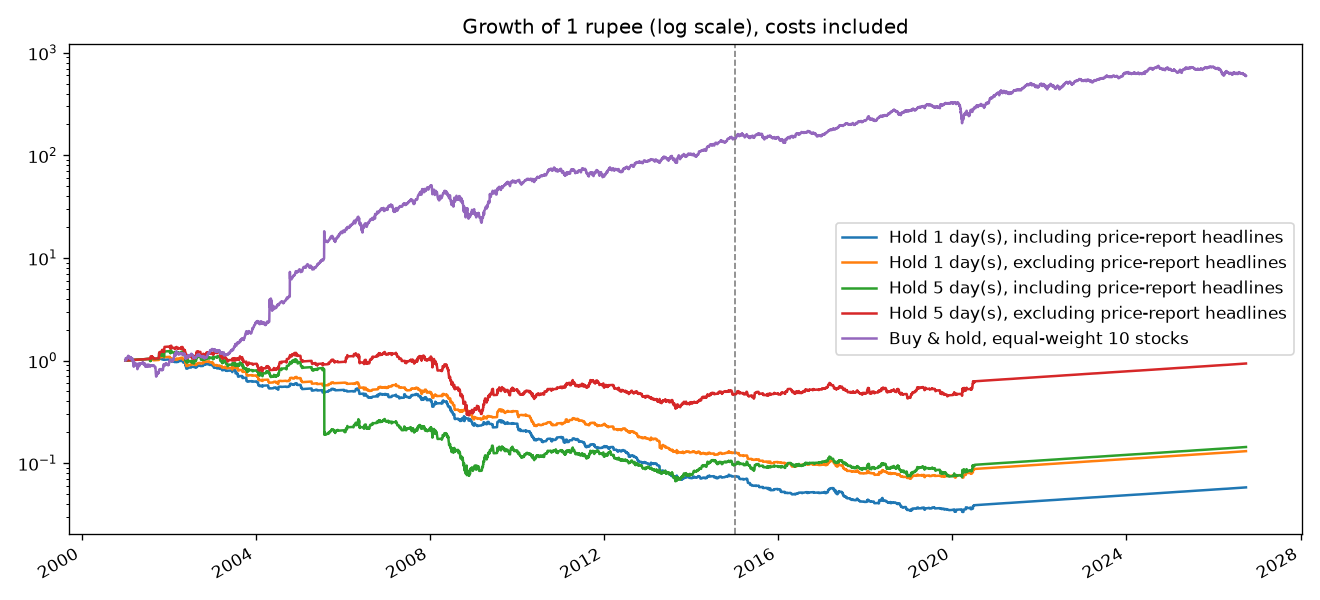
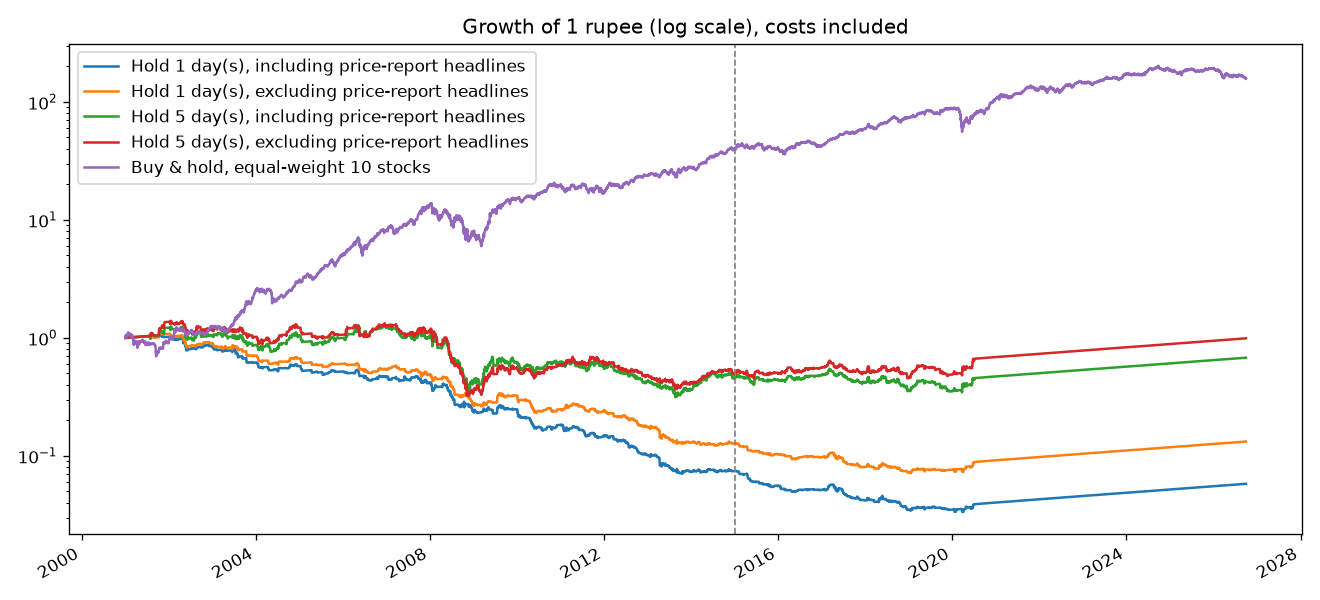
Module 3: price cleaning, pre-news returns; finding: newspaper sentiment lags prices

diff --git a/src/backtest/engine.py b/src/backtest/engine.py
@@ -59,12 +59,18 @@ def events(signal: pd.DataFrame, opens: pd.DataFrame, closes: pd.DataFrame, hold
         if not (np.isfinite(o) and np.isfinite(c)) or o <= 0:
             continue
         raw = c / o - 1
+        # Abnormal return over the 5 sessions BEFORE entry (up to the news-day close):
+        # tells us whether the headline arrived after the market had already moved.
+        pre = np.nan
+        if i >= 6:
+            pc = closes.iloc[i - 1] / closes.iloc[i - 6] - 1
+            pre = float(pc[r.ticker] - pc.mean(skipna=True))
         # Equal-weight market: the AVERAGE of each stock's own return over the same window
         # (averaging prices instead would overweight high-priced stocks).
         mkt = float((closes.iloc[j] / opens.iloc[i] - 1).mean(skipna=True))
-        rows.append((r.ticker, r.date, dates[i], dates[j], r.score, r.n, raw, raw - mkt))
+        rows.append((r.ticker, r.date, dates[i], dates[j], r.score, r.n, raw, raw - mkt, pre))
     return pd.DataFrame(rows, columns=["ticker", "news_date", "entry", "exit", "score", "n",
-                                       "ret", "abn_ret"])
+                                       "ret", "abn_ret", "pre_abn_ret"])
 
 
 def event_study(ev: pd.DataFrame, threshold: float) -> pd.DataFrame:
@@ -75,6 +81,10 @@ def event_study(ev: pd.DataFrame, threshold: float) -> pd.DataFrame:
                         "hit_rate_%": g.apply(lambda s: (s > 0).mean() * 100)})
     se = g.std() / np.sqrt(g.size())
     out["t_stat"] = g.mean() / se
+    if "pre_abn_ret" in ev:
+        gp = ev.groupby(b, observed=False)["pre_abn_ret"]
+        out["pre_5d_abn_ret_%"] = gp.mean() * 100
+        out["pre_t_stat"] = gp.mean() / (gp.std() / np.sqrt(gp.count()))
     return out
 
 
@@ -104,4 +114,4 @@ def portfolio_returns(ev: pd.DataFrame, opens: pd.DataFrame, closes: pd.DataFram
 
 def benchmark_returns(closes: pd.DataFrame) -> pd.Series:
     """Equal-weight buy-and-hold of all stocks, rebalanced daily."""
-    return closes.pct_change().mean(axis=1).fillna(0.0)
+    return closes.pct_change(fill_method=None).mean(axis=1).fillna(0.0)

diff --git a/src/ingest/prices.py b/src/ingest/prices.py
@@ -16,3 +16,35 @@ def fetch_prices(ticker: str, start: str, end: str | None = None) -> pd.DataFram
     df = raw.reset_index().rename(columns=str.lower)
     df["date"] = pd.to_datetime(df["date"]).dt.strftime("%Y-%m-%d")
     return df[["date", "open", "high", "low", "close", "volume"]].dropna(subset=["close"])
+
+
+# First real trading day on NSE. Yahoo returns earlier rows for some stocks that are not real prices.
+LISTING_DATES = {"TCS.NS": "2004-08-25"}
+
+
+def clean_prices(prices: pd.DataFrame, spike: float = 0.30, reversal_band: float = 0.15) -> tuple[pd.DataFrame, pd.DataFrame]:
+    """Remove bad rows from Yahoo daily data. Returns (clean, removed-with-reason).
+
+    Rules:
+      - before_listing: rows before the stock's NSE listing date
+      - zero_volume:    days with no trading (holidays Yahoo filled with the previous price)
+      - bad_tick:       a one-day jump of more than `spike` that is undone the next day
+                        (the two-day move nets to within +-reversal_band). This is what an
+                        unadjusted split/bonus day looks like, e.g. Kotak +381% then -80%.
+    """
+    df = prices.sort_values(["ticker", "date"]).reset_index(drop=True)
+    reason = pd.Series("", index=df.index)
+
+    listing = df["ticker"].map(LISTING_DATES)
+    reason[listing.notna() & (df["date"] < listing)] = "before_listing"
+    reason[(reason == "") & (df["volume"] == 0)] = "zero_volume"
+
+    keep = df[reason == ""]
+    r = keep.groupby("ticker")["close"].pct_change()
+    r_next = keep.groupby("ticker")["close"].pct_change().groupby(keep["ticker"]).shift(-1)
+    two_day = (1 + r) * (1 + r_next) - 1
+    bad = (r.abs() > spike) & (two_day.abs() < reversal_band)
+    reason[bad[bad].index] = "bad_tick"
+
+    removed = df[reason != ""].assign(reason=reason[reason != ""])
+    return df[reason == ""].reset_index(drop=True), removed

diff --git a/tests/test_price_cleaning.py b/tests/test_price_cleaning.py
@@ -1,0 +1,31 @@
+"""Bad Yahoo ticks found in the real data must be removed before backtesting."""
+import pandas as pd
+
+from src.ingest.prices import clean_prices
+
+
+def rows(ticker, closes, start="2004-04-22", volume=1000):
+    dates = pd.bdate_range(start, periods=len(closes)).strftime("%Y-%m-%d")
+    return [{"ticker": ticker, "date": d, "open": c, "high": c, "low": c, "close": c, "volume": volume}
+            for d, c in zip(dates, closes)]
+
+
+def test_unadjusted_bonus_day_spike_is_removed():
+    # Real pattern (Kotak, Apr 2004): 3.88 -> 18.69 (+381%) -> 3.70 (-80%)
+    df = pd.DataFrame(rows("KOTAKBANK.NS", [3.9, 3.88, 18.69, 3.70, 3.75]))
+    clean, removed = clean_prices(df)
+    assert removed["reason"].tolist() == ["bad_tick"] and removed["close"].iloc[0] == 18.69
+    assert clean["close"].pct_change().abs().max() < 0.05
+
+
+def test_real_crash_that_does_not_reverse_is_kept():
+    df = pd.DataFrame(rows("AXISBANK.NS", [420, 383, 307, 300, 310]))   # Mar 2020: -20%, no reversal
+    clean, removed = clean_prices(df)
+    assert removed.empty and len(clean) == 5
+
+
+def test_before_listing_and_zero_volume_removed():
+    df = pd.DataFrame(rows("TCS.NS", [10, 11, 12, 13, 14], start="2004-08-20") + rows("INFY.NS", [50, 50], volume=0))
+    clean, removed = clean_prices(df)
+    assert set(removed["reason"]) == {"before_listing", "zero_volume"}
+    assert clean["date"].min() >= "2004-08-25" and "INFY.NS" not in set(clean["ticker"])

diff --git a/backtest.py b/backtest.py
@@ -27,6 +27,7 @@ import config
 from src.backtest import metrics
 from src.backtest.engine import (Config, benchmark_returns, daily_signal, event_study, events,
                                  portfolio_returns, price_panels)
+from src.ingest.prices import clean_prices
 from src.sentiment.finbert import MODEL_NAME, FinBertScorer
 from src.storage import db
 
@@ -77,13 +78,17 @@ def main() -> None:
     if prices.empty or prices["date"].min() > "2002-12-31":
         raise SystemExit("Prices start too late. Run: python ingest.py --prices-only --start 2001-01-01")
 
+    prices, removed = clean_prices(prices)
+    log.info("Price cleaning removed %d rows: %s", len(removed), removed["reason"].value_counts().to_dict())
     opens, closes = price_panels(prices)
     scored = scored[scored["date"] >= opens.index.min()]
     REPORTS.mkdir(exist_ok=True)
     pd.set_option("display.width", 200)
     fmt = lambda x: f"{x:.2f}"
     md = ["# Backtest results\n", f"Headlines: {len(scored)}  |  threshold {args.threshold}  |  "
-          f"round-trip cost {args.cost:.2%}  |  risk-free {args.rf:.1%}\n"]
+          f"round-trip cost {args.cost:.2%}  |  risk-free {args.rf:.1%}\n",
+          f"Price rows removed by cleaning: {len(removed)} "
+          f"({', '.join(f'{k}: {v}' for k, v in removed['reason'].value_counts().items())})\n"]
     curves = {}
 
     for hold in (1, 5):

diff --git a/reports/results.md b/reports/results.md
@@ -2,28 +2,30 @@
 
 Headlines: 4388  |  threshold 0.3  |  round-trip cost 0.25%  |  risk-free 6.5%
 
+Price rows removed by cleaning: 1024 (before_listing: 531, zero_volume: 492, bad_tick: 1)
+
 
 ## Hold 1 day(s), including price-report headlines
 
 Event study (abnormal return vs equal-weight market):
 
-| score    |   events |   mean_abn_ret_% |   hit_rate_% |   t_stat |
-|:---------|---------:|-----------------:|-------------:|---------:|
-| negative |   685.00 |            -0.00 |        47.30 |    -0.01 |
-| neutral  |  1750.00 |             0.04 |        50.06 |     0.93 |
-| positive |  1233.00 |            -0.11 |        45.74 |    -2.21 |
+| score    |   events |   mean_abn_ret_% |   hit_rate_% |   t_stat |   pre_5d_abn_ret_% |   pre_t_stat |
+|:---------|---------:|-----------------:|-------------:|---------:|-------------------:|-------------:|
+| negative |   685.00 |             0.00 |        47.74 |     0.06 |              -0.86 |        -4.92 |
+| neutral  |  1738.00 |             0.04 |        50.40 |     0.98 |               0.22 |         2.19 |
+| positive |  1227.00 |            -0.13 |        45.88 |    -2.42 |               0.50 |         4.19 |
 
 
 Strategy vs benchmark:
 
 | period                    | strategy        |   CAGR_% |   Sharpe |   MaxDD_% |
 |:--------------------------|:----------------|---------:|---------:|----------:|
-| 2001-2014 (in-sample)     | news long-only  |   -17.02 |    -1.52 |    -93.76 |
-| 2001-2014 (in-sample)     | buy & hold (EW) |    43.03 |     0.85 |    -56.92 |
-| 2015-2020 (out-of-sample) | news long-only  |    -2.10 |    -1.02 |    -55.15 |
-| 2015-2020 (out-of-sample) | buy & hold (EW) |    12.89 |     0.43 |    -37.55 |
-| full period               | news long-only  |   -10.58 |    -1.31 |    -96.98 |
-| full period               | buy & hold (EW) |    28.50 |     0.68 |    -56.92 |
+| 2001-2014 (in-sample)     | news long-only  |   -17.25 |    -1.51 |    -93.61 |
+| 2001-2014 (in-sample)     | buy & hold (EW) |    30.77 |     0.93 |    -56.92 |
+| 2015-2020 (out-of-sample) | news long-only  |    -2.12 |    -1.02 |    -55.15 |
+| 2015-2020 (out-of-sample) | buy & hold (EW) |    12.66 |     0.41 |    -37.55 |
+| full period               | news long-only  |   -10.67 |    -1.30 |    -96.98 |
+| full period               | buy & hold (EW) |    22.18 |     0.73 |    -56.92 |
 
 
 
@@ -31,23 +33,23 @@ Strategy vs benchmark:
 
 Event study (abnormal return vs equal-weight market):
 
-| score    |   events |   mean_abn_ret_% |   hit_rate_% |   t_stat |
-|:---------|---------:|-----------------:|-------------:|---------:|
-| negative |   600.00 |            -0.01 |        47.67 |    -0.09 |
-| neutral  |  1731.00 |             0.04 |        49.97 |     0.90 |
-| positive |  1009.00 |            -0.06 |        46.98 |    -1.14 |
+| score    |   events |   mean_abn_ret_% |   hit_rate_% |   t_stat |   pre_5d_abn_ret_% |   pre_t_stat |
+|:---------|---------:|-----------------:|-------------:|---------:|-------------------:|-------------:|
+| negative |   600.00 |            -0.00 |        48.17 |    -0.01 |              -0.52 |        -2.94 |
+| neutral  |  1719.00 |             0.04 |        50.38 |     0.96 |               0.18 |         1.74 |
+| positive |  1003.00 |            -0.08 |        47.06 |    -1.37 |               0.41 |         3.09 |
 
 
 Strategy vs benchmark:
 
 | period                    | strategy        |   CAGR_% |   Sharpe |   MaxDD_% |
 |:--------------------------|:----------------|---------:|---------:|----------:|
-| 2001-2014 (in-sample)     | news long-only  |   -13.78 |    -1.41 |    -88.93 |
-| 2001-2014 (in-sample)     | buy & hold (EW) |    43.03 |     0.85 |    -56.92 |
-| 2015-2020 (out-of-sample) | news long-only  |     0.28 |    -0.78 |    -44.50 |
-| 2015-2020 (out-of-sample) | buy & hold (EW) |    12.89 |     0.43 |    -37.55 |
-| full period               | news long-only  |    -7.67 |    -1.16 |    -93.54 |
-| full period               | buy & hold (EW) |    28.50 |     0.68 |    -56.92 |
+| 2001-2014 (in-sample)     | news long-only  |   -13.89 |    -1.39 |    -88.77 |
+| 2001-2014 (in-sample)     | buy & hold (EW) |    30.77 |     0.93 |    -56.92 |
+| 2015-2020 (out-of-sample) | news long-only  |     0.27 |    -0.78 |    -44.50 |
+| 2015-2020 (out-of-sample) | buy & hold (EW) |    12.66 |     0.41 |    -37.55 |
+| full period               | news long-only  |    -7.70 |    -1.15 |    -93.45 |
+| full period               | buy & hold (EW) |    22.18 |     0.73 |    -56.92 |
 
 
 
@@ -55,23 +57,23 @@ Strategy vs benchmark:
 
 Event study (abnormal return vs equal-weight market):
 
-| score    |   events |   mean_abn_ret_% |   hit_rate_% |   t_stat |
-|:---------|---------:|-----------------:|-------------:|---------:|
-| negative |   685.00 |             0.10 |        51.09 |     0.69 |
-| neutral  |  1750.00 |            -0.10 |        47.49 |    -1.07 |
-| positive |  1233.00 |            -0.49 |        45.34 |    -4.52 |
+| score    |   events |   mean_abn_ret_% |   hit_rate_% |   t_stat |   pre_5d_abn_ret_% |   pre_t_stat |
+|:---------|---------:|-----------------:|-------------:|---------:|-------------------:|-------------:|
+| negative |   685.00 |             0.10 |        50.95 |     0.69 |              -0.86 |        -4.92 |
+| neutral  |  1738.00 |            -0.11 |        47.47 |    -1.16 |               0.22 |         2.19 |
+| positive |  1227.00 |            -0.44 |        45.15 |    -4.47 |               0.50 |         4.19 |
 
 
 Strategy vs benchmark:
 
 | period                    | strategy        |   CAGR_% |   Sharpe |   MaxDD_% |
 |:--------------------------|:----------------|---------:|---------:|----------:|
-| 2001-2014 (in-sample)     | news long-only  |   -15.47 |    -0.48 |    -94.69 |
-| 2001-2014 (in-sample)     | buy & hold (EW) |    43.03 |     0.85 |    -56.92 |
+| 2001-2014 (in-sample)     | news long-only  |    -5.58 |    -0.38 |    -75.59 |
+| 2001-2014 (in-sample)     | buy & hold (EW) |    30.77 |     0.93 |    -56.92 |
 | 2015-2020 (out-of-sample) | news long-only  |     3.55 |    -0.20 |    -37.05 |
-| 2015-2020 (out-of-sample) | buy & hold (EW) |    12.89 |     0.43 |    -37.55 |
-| full period               | news long-only  |    -7.34 |    -0.38 |    -94.69 |
-| full period               | buy & hold (EW) |    28.50 |     0.68 |    -56.92 |
+| 2015-2020 (out-of-sample) | buy & hold (EW) |    12.66 |     0.41 |    -37.55 |
+| full period               | news long-only  |    -1.52 |    -0.31 |    -75.59 |
+| full period               | buy & hold (EW) |    22.18 |     0.73 |    -56.92 |
 
 
 
@@ -79,21 +81,21 @@ Strategy vs benchmark:
 
 Event study (abnormal return vs equal-weight market):
 
-| score    |   events |   mean_abn_ret_% |   hit_rate_% |   t_stat |
-|:---------|---------:|-----------------:|-------------:|---------:|
-| negative |   600.00 |             0.07 |        50.83 |     0.47 |
-| neutral  |  1731.00 |            -0.12 |        47.54 |    -1.29 |
-| positive |  1009.00 |            -0.41 |        45.69 |    -3.86 |
+| score    |   events |   mean_abn_ret_% |   hit_rate_% |   t_stat |   pre_5d_abn_ret_% |   pre_t_stat |
+|:---------|---------:|-----------------:|-------------:|---------:|-------------------:|-------------:|
+| negative |   600.00 |             0.07 |        50.67 |     0.48 |              -0.52 |        -2.94 |
+| neutral  |  1719.00 |            -0.13 |        47.59 |    -1.37 |               0.18 |         1.74 |
+| positive |  1003.00 |            -0.42 |        45.46 |    -3.91 |               0.41 |         3.09 |
 
 
 Strategy vs benchmark:
 
 | period                    | strategy        |   CAGR_% |   Sharpe |   MaxDD_% |
 |:--------------------------|:----------------|---------:|---------:|----------:|
-| 2001-2014 (in-sample)     | news long-only  |    -5.33 |    -0.40 |    -78.99 |
-| 2001-2014 (in-sample)     | buy & hold (EW) |    43.03 |     0.85 |    -56.92 |
+| 2001-2014 (in-sample)     | news long-only  |    -5.00 |    -0.38 |    -76.96 |
+| 2001-2014 (in-sample)     | buy & hold (EW) |    30.77 |     0.93 |    -56.92 |
 | 2015-2020 (out-of-sample) | news long-only  |     6.24 |     0.02 |    -29.36 |
-| 2015-2020 (out-of-sample) | buy & hold (EW) |    12.89 |     0.43 |    -37.55 |
-| full period               | news long-only  |    -0.26 |    -0.26 |    -78.99 |
-| full period               | buy & hold (EW) |    28.50 |     0.68 |    -56.92 |
+| 2015-2020 (out-of-sample) | buy & hold (EW) |    12.66 |     0.41 |    -37.55 |
+| full period               | news long-only  |    -0.03 |    -0.25 |    -76.96 |
+| full period               | buy & hold (EW) |    22.18 |     0.73 |    -56.92 |
 

diff --git a/README.md b/README.md
@@ -32,7 +32,7 @@ Put your GNews key in `.env` (get one at https://gnews.io). `.env` is git-ignore
 ## Run
 
 ```bat
-python -m pytest -q              :: 45 tests should pass
+python -m pytest -q              :: 48 tests should pass
 python ingest.py --prices-only   :: 2 years of daily prices for 10 Nifty stocks
 python ingest.py                 :: prices + latest news (uses 10 GNews requests)
 python score.py                  :: score new articles per company, print daily sentiment
@@ -104,7 +104,32 @@ Settings (threshold 0.3, hold 1 and 5 days) were fixed before looking at results
 2015-2020 is an honest out-of-sample check. As a placebo, random sentiment scores produce
 t-stats near zero and a losing strategy after costs.
 
-Results: see `reports/results.md` and `reports/equity.png`.
+**Price cleaning.** Yahoo's old NSE data had to be cleaned first. It includes rows before
+TCS listed (Aug 2004), zero-volume holiday rows carrying unadjusted prices (Kotak +381% one
+day, -80% the next; Reliance +337% on its 2005 demerger date) and a one-day unadjusted
+bonus on L&T. These inflated equal-weight buy-and-hold to 43% a year and made positive news
+look like it caused crashes. `clean_prices` removes 1,024 such rows, with tests.
+
+### Findings (4,388 headlines, 2001 to mid-2020)
+
+| News | Abnormal return, 5 days BEFORE the headline | Abnormal return, 5 days AFTER |
+|---|---|---|
+| Positive | +0.50% (t = 4.2) | -0.44% (t = -4.5) |
+| Negative | -0.86% (t = -4.9) | +0.10% (not significant) |
+
+1. **Newspaper headlines arrive after the price has moved.** Stocks rise before positive
+   headlines and fall before negative ones, then positive-news stocks partly reverse.
+   The information is priced before the paper prints it.
+2. **So a long-only strategy on positive headlines does not beat buy-and-hold** in either
+   period, with or without price-report headlines. After 0.25% costs, the 1-day version
+   loses heavily because it trades so often.
+3. Excluding price-report headlines barely changes the result, so the reversal is not just
+   sentiment echoing past returns.
+
+Full tables: `reports/results.md`; equity curves: `reports/equity.png`.
+
+**What would be needed for an edge:** timestamped news (minutes, not dates) so trades can
+happen before the move, which is what the live GNews pipeline collects going forward.
 
 ## Known limits
 
@@ -115,5 +140,8 @@ Results: see `reports/results.md` and `reports/equity.png`.
 - GNews free tier returns only recent articles (about 30 days) and ~100 requests/day,
   so it feeds the live dashboard; the backtest uses the historical archive instead.
 - The historical archive is one general newspaper, headlines only, ending mid-2020.
+- Survivorship bias: the 10 stocks are today's large caps, chosen with hindsight, so
+  buy-and-hold looks unusually strong (about 31% a year in 2001-2014).
+- Some corporate actions (e.g. L&T's 2004 cement demerger) may still be unadjusted in Yahoo data.
 - yfinance is an unofficial Yahoo wrapper; if it prints "possibly delisted", it is
   usually a network or rate-limit issue, not a delisting.
